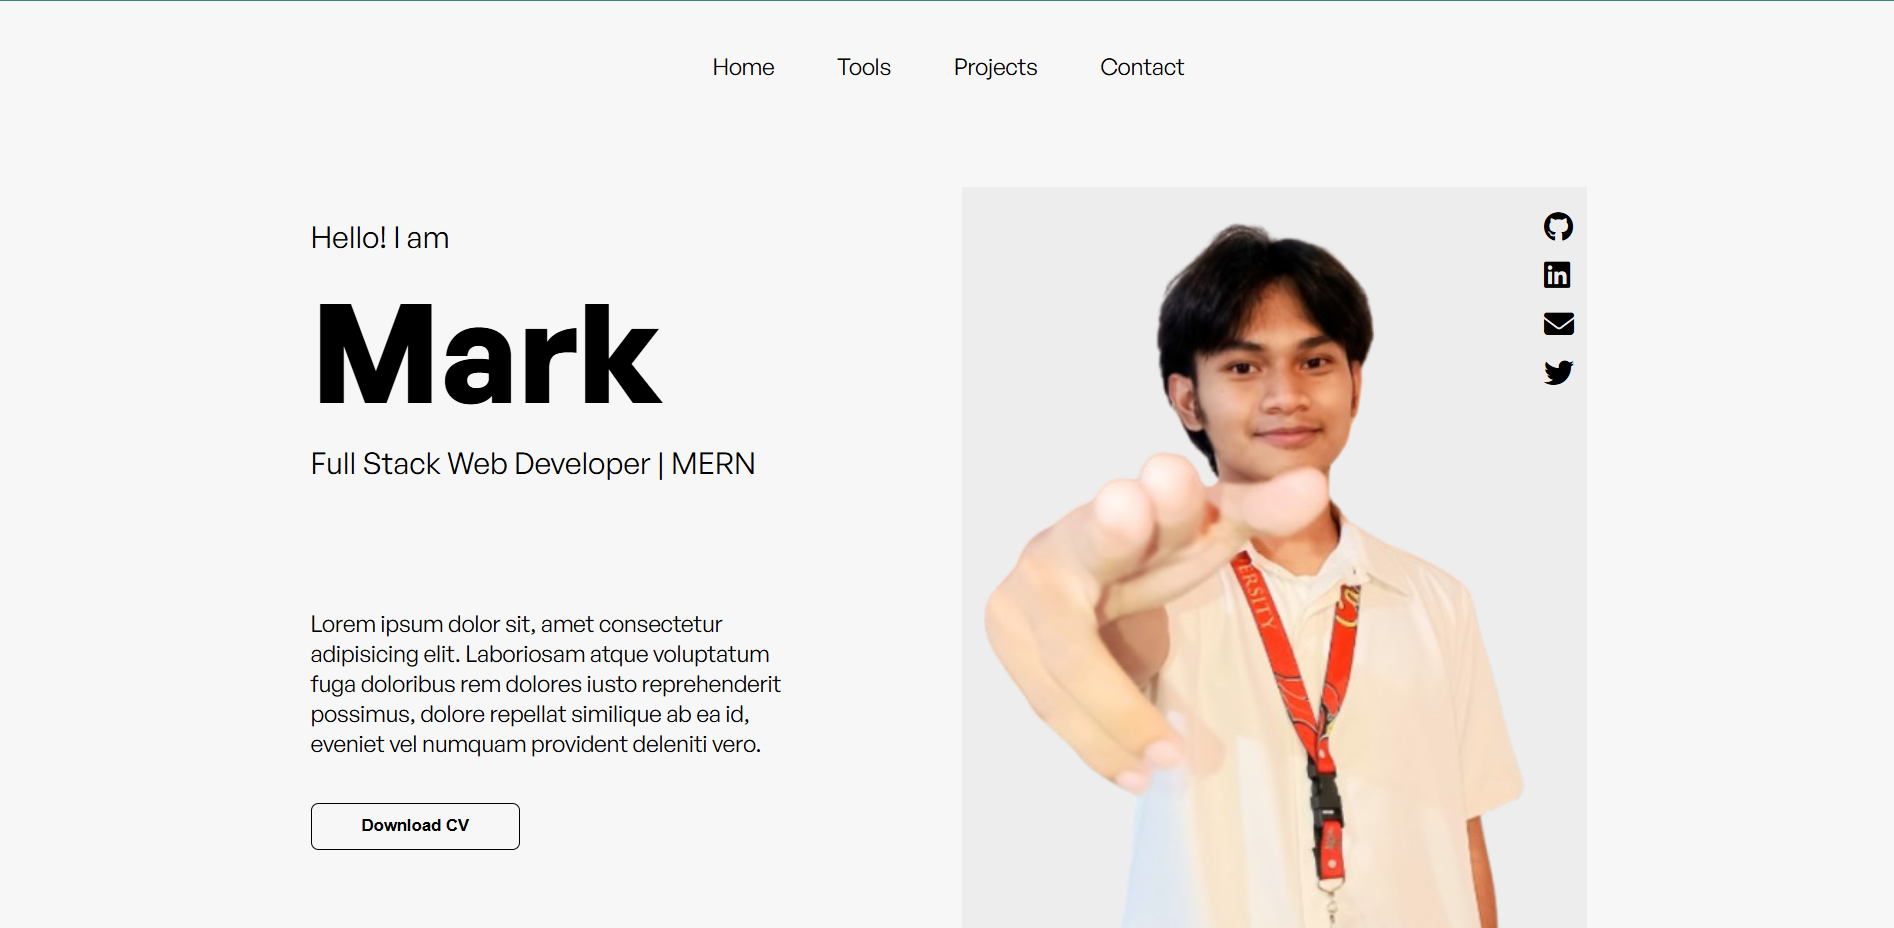
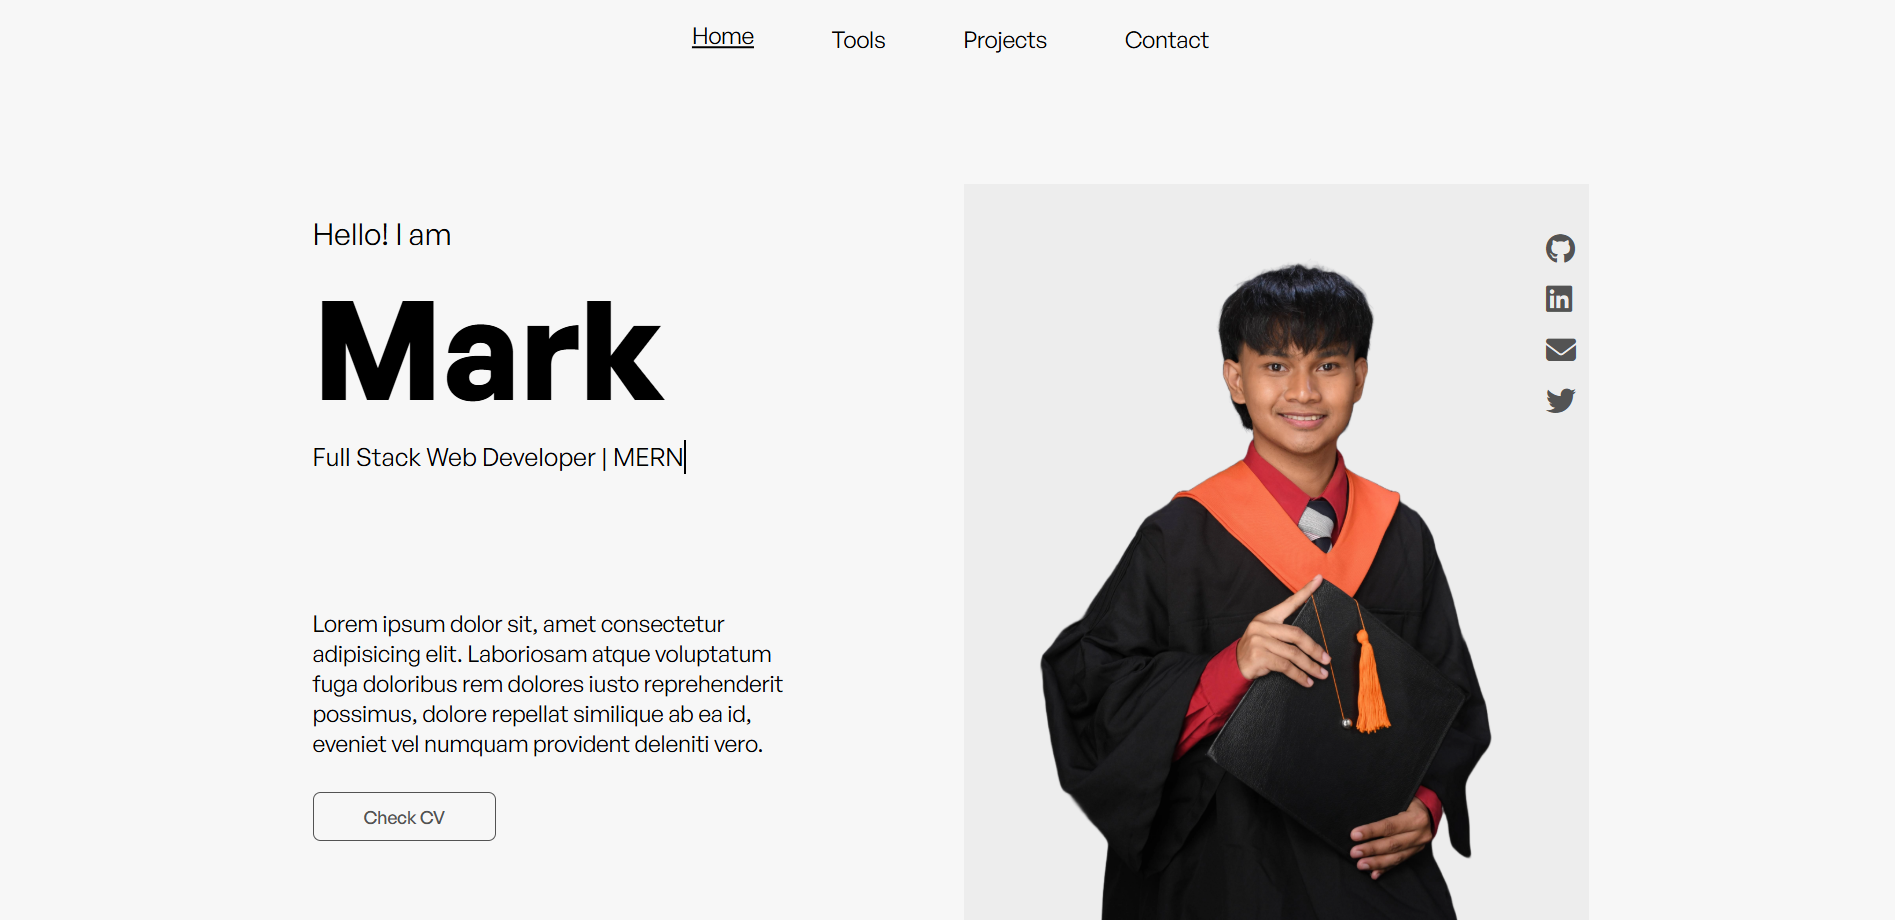
Portfolio Finalized

diff --git a/src/pages/projects/ProjectsBody.tsx b/src/pages/projects/ProjectsBody.tsx
@@ -7,8 +7,8 @@ import { ProjectsView } from "./ProjectsView";
 import { ProjectsFooter } from "./ProjectsFooter";
 
 import PersonalWebsiteImage from '../../assets/images/portfolio.png';
-import OnionLensImage from '../../assets/images/onionlens.avif';
-import StoreSystemImage from '../../assets/images/dashboard.jpg';
+import OnionLensImage from '../../assets/images/onionlens.png';
+import StoreSystemImage from '../../assets/images/store.png';
 
 export function ProjectsBody() {
   const [activeProject, setActiveProject] = useState<string | null>(null);
@@ -17,22 +17,22 @@ export function ProjectsBody() {
     image: StoreSystemImage,
     href: "https://github.com/matsamonte9/Store-System",
     title: 'Store System',
-    cutDetails: 'Lorem ipsum dolor sit amet consectetur adipisicing elit. Delectus totam...',
-    fullDetails: 'Lorem ipsum dolor sit amet consectetur adipisicing elit. Ullam officiis sunt sapiente neque laboriosam fugit adipisci fuga illum, corporis iure dolorum repellat provident eum repellendus excepturi dolorem aperiam nostrum voluptas. Lorem ipsum dolor sit amet consectetur adipisicing elit. Vitae perspiciatis amet iste architecto voluptatum commodi ratione voluptatem, ab eveniet vel ipsum hic consequuntur asperiores sequi ut. Quisquam eos odio praesentium. Store',
+    cutDetails: 'Store System is a full-stack retail management system I developed using...',
+    fullDetails: `Store System is a full-stack retail management system I developed using Vanilla JavaScript, Node.js with Express, and MongoDB, designed to handle inventory control, point-of-sale operations, order tracking, user management, RBAC, and barcode-based workflows to reduce manual processes, workloads, and human error in small retail businesses specifically my Mother's business.`,
     id: 'store'
   }, {
     image: PersonalWebsiteImage,
     href: "https://github.com/matsamonte9/portfolio-website",
     title: 'Portfolio Website',
-    cutDetails: 'Lorem ipsum dolor sit amet consectetur adipisicing elit. Delectus totam...',
-    fullDetails: 'Lorem ipsum dolor sit amet consectetur adipisicing elit. Ullam officiis sunt sapiente neque laboriosam fugit adipisci fuga illum, corporis iure dolorum repellat provident eum repellendus excepturi dolorem aperiam nostrum voluptas. Lorem ipsum dolor sit amet consectetur adipisicing elit. Vitae perspiciatis amet iste architecto voluptatum commodi ratione voluptatem, ab eveniet vel ipsum hic consequuntur asperiores sequi ut. Quisquam eos odio praesentium. Portfolio',
+    cutDetails: 'A personal portfolio website built using React and TypeScript to showcase...',
+    fullDetails: 'A personal portfolio website built using React and TypeScript to showcase my projects, technical skills, and experience with a focus on clean design, smooth animations, and responsive layouts.',
     id: 'portfolio'
   }, {
     image: OnionLensImage,
     href: "https://github.com/matsamonte9/OnionLens",
     title: 'OnionLens',
-    cutDetails: 'Lorem ipsum dolor sit amet consectetur adipisicing elit. Delectus totam...',
-    fullDetails: 'Lorem ipsum dolor sit amet consectetur adipisicing elit. Ullam officiis sunt sapiente neque laboriosam fugit adipisci fuga illum, corporis iure dolorum repellat provident eum repellendus excepturi dolorem aperiam nostrum voluptas. Lorem ipsum dolor sit amet consectetur adipisicing elit. Vitae perspiciatis amet iste architecto voluptatum commodi ratione voluptatem, ab eveniet vel ipsum hic consequuntur asperiores sequi ut. Quisquam eos odio praesentium. OnionLens',
+    cutDetails: 'OnionLens is a team-developed machine learning system built using Python...',
+    fullDetails: 'OnionLens is a team-developed machine learning system built using Python, CNNs, and Flask, where I was responsible for creating and optimizing the machine learning model through image processing, model training, and hyperparameter tuning to detect armyworm infestation in onions as an early pest detection tool for local farmers.',
     id: 'onionlens'
   }]
 

diff --git a/src/pages/contacts/ContactForm.tsx b/src/pages/contacts/ContactForm.tsx
@@ -1,15 +1,18 @@
 import emailjs from '@emailjs/browser';
-import { useRef } from 'react';
+import { useRef, useState } from 'react';
 
 import './ContactForm.css';
 
 export function ContactForm() {
   const formRef = useRef<HTMLFormElement>(null);
+  const [isSending, setIsSending] = useState(false);
 
   const sendEmail = (e: React.FormEvent) => {
     e.preventDefault();
 
     if (!formRef.current) return;
+
+    setIsSending(true);
 
     emailjs.sendForm(
       import.meta.env.VITE_EMAILJS_SERVICE_ID,
@@ -36,6 +39,8 @@ export function ContactForm() {
       formRef.current?.reset();
     }).catch(() => {
       alert("Failed to send message");
+    }).finally(() => {
+      setIsSending(false);
     });
   }
 
@@ -47,7 +52,12 @@ export function ContactForm() {
       <input id="email" name="email" type="email" placeholder="Enter your email" />
       <label htmlFor="message">Write your message here</label>
       <textarea id="message" name="message" placeholder="Enter your message"></textarea>
-      <button type="submit">Submit</button>
+      <button 
+        type="submit"
+        disabled={isSending}
+      >
+        {isSending ? "Sending..." : "Submit"}
+      </button>
     </form>
   );
 }

diff --git a/src/pages/home/HomeBody.tsx b/src/pages/home/HomeBody.tsx
@@ -21,7 +21,7 @@ export function HomeBody() {
           </p>
         </div>
         <p className="intro-footer">
-          Lorem ipsum dolor sit, amet consectetur adipisicing elit. Laboriosam atque voluptatum fuga doloribus rem dolores iusto reprehenderit possimus, dolore repellat similique ab ea id, eveniet vel numquam provident deleniti vero.
+          Result-driven <span> Full Stack Web Developer </span> specializing in building web applications with the <span>MERN stack</span>. I enjoy working across the full development lifecycle, from planning and database design to creating responsive, scalable, and user-centered solutions.
         </p>
         <a 
           href="/resume-samonte-mark-anthony.pdf"

diff --git a/src/pages/home/HomeBody.css b/src/pages/home/HomeBody.css
@@ -42,6 +42,10 @@
   margin-bottom: 36px;
 }
 
+.home-intro-container .intro-footer span {
+  font-weight: 600;
+}
+
 .home-intro-container .view-cv {
   color: rgb(83, 83, 83);
   text-decoration: none;
@@ -69,14 +73,13 @@
 
 .headers-img {
   position: absolute;
-  left: 40px;
+  left: 60px;
   right: 0;
   bottom: 0;
 
   overflow: hidden;
 
-  height: 90%;
-  width: 90%;
+  width: 430px;
 }
 
 .typing {
@@ -127,8 +130,8 @@
   }
 
   .headers-img {
-    top: 30px;
-    left: 10px;
+    top: -80px;
+    left: -50px;
   }
 
   .home-intro-container .intro-header {

diff --git a/src/pages/contacts/ContactInfo.tsx b/src/pages/contacts/ContactInfo.tsx
@@ -4,7 +4,9 @@ export function ContactInfo() {
   return (
     <div className="contacts-info-container">
       <h1>Let's Talk</h1>
-      <p>Lorem ipsum dolor sit amet consectetur adipisicing elit. Inventore earum quibusdam cupiditate vel distinctio</p>
+      <p>
+        I welcome inquiries about my work, potential collaborations, or professional opportunities. Please don’t hesitate to get in touch via email, phone, or location.
+      </p>
       <div className="contact-details-container">
         <div>
           <i className="fa-solid fa-envelope"></i>

diff --git a/src/pages/contacts/ContactInfo.css b/src/pages/contacts/ContactInfo.css
@@ -31,3 +31,9 @@
   color: rgb(83, 83, 83);;
   margin: 2px;
 }
+
+@media (max-width: 600px) {
+  .contacts-info-container h1 {
+    display: none;
+  }
+}

diff --git a/src/pages/home/HomeHeader.css b/src/pages/home/HomeHeader.css
@@ -55,7 +55,7 @@
 
   .mobile-nav {
     position: absolute;
-    top: 100px;
+    top: 75px;
     right: 10px;
     background: white;
     display: flex;

diff --git a/src/pages/contacts/ContactsBody.css b/src/pages/contacts/ContactsBody.css
@@ -2,6 +2,8 @@
   display: flex;
   justify-content: space-between;
   align-items: start;
+
+  gap: 20px;
 }
 
 @media (max-width: 600px) {

diff --git a/src/pages/projects/ProjectsList.css b/src/pages/projects/ProjectsList.css
@@ -58,6 +58,7 @@
 
 .project-info-container p {
   margin-left: 15px;
+  margin-right: 15px;
 }
 
 .project-info-container .project-title {
